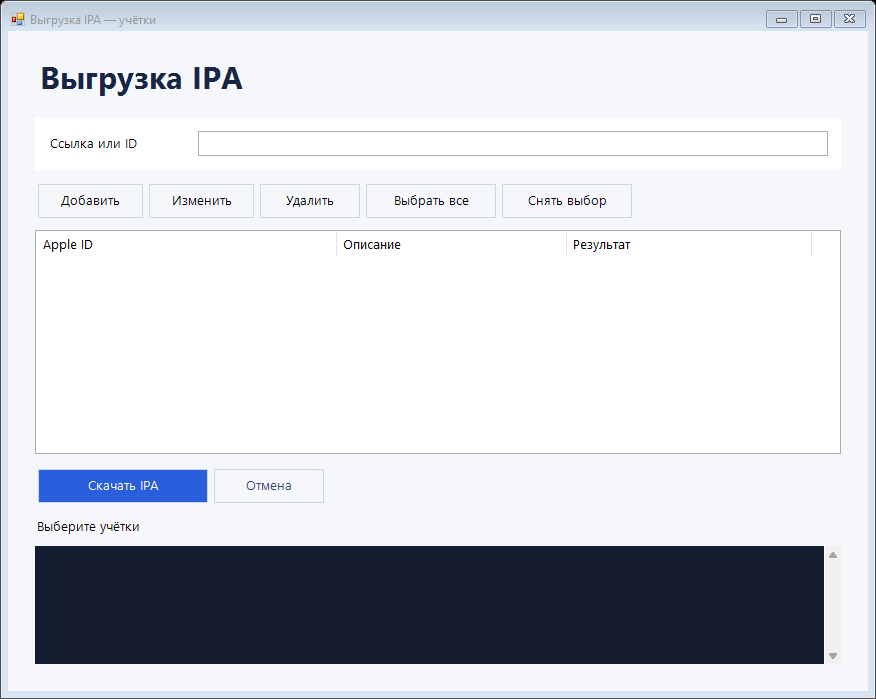
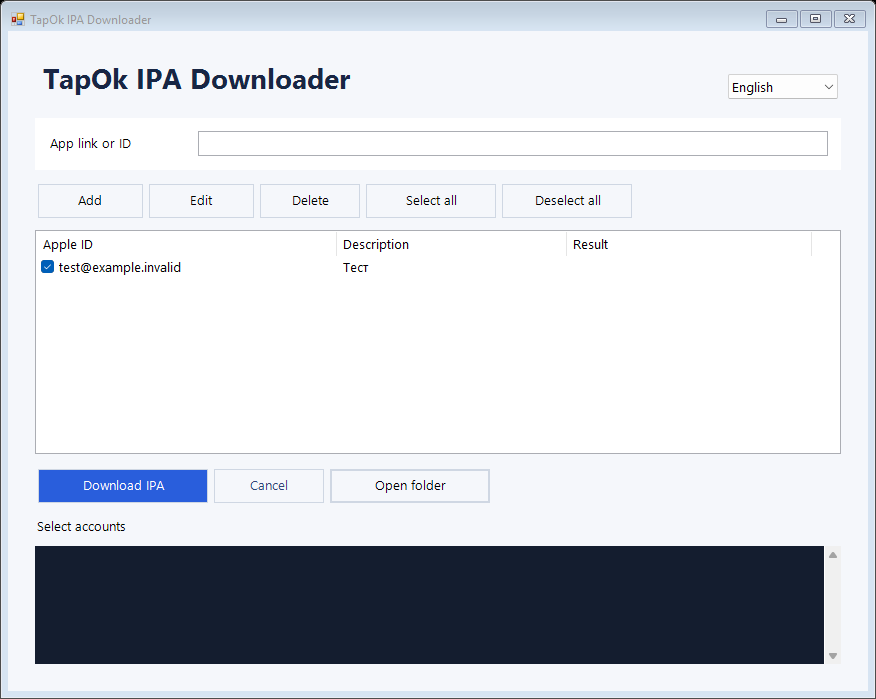
Rename the suite and all applications to TapOk IPA Tools

diff --git a/android/app/src/main/java/ru/ipadesk/usb/MainActivity.java b/android/app/src/main/java/ru/ipadesk/usb/MainActivity.java
@@ -91,7 +91,7 @@ public final class MainActivity extends Activity implements Installer.Listener {
         // IPA cache is disposable, never part of backups.
         File[] stale = getCacheDir().listFiles((dir, name) -> name.startsWith("selected-") && name.endsWith(".ipa"));
         if (stale != null) for (File f : stale) f.delete();
-        log("IPA USB 0.7.0-beta.3 • Android " + Build.VERSION.RELEASE + " • " + Build.MANUFACTURER + " " + Build.MODEL);
+        log("TapOk IPA Installer — Android 0.7.0-beta.4 • Android " + Build.VERSION.RELEASE + " • " + Build.MANUFACTURER + " " + Build.MODEL);
         refreshButtons();
     }
     private int dp(int value) { return (int)(value * getResources().getDisplayMetrics().density + 0.5f); }
@@ -126,8 +126,8 @@ public final class MainActivity extends Activity implements Installer.Listener {
         root.requestApplyInsets();
         LinearLayout top = row(root);
         heading = text(L10n.t(L10n.Key.TITLE), 28, Color.rgb(20,40,70)); heading.setTypeface(null, Typeface.BOLD);
-        heading.setMaxLines(1); heading.setAutoSizeTextTypeUniformWithConfiguration(18, 28, 1, android.util.TypedValue.COMPLEX_UNIT_SP);
-        top.addView(heading, new LinearLayout.LayoutParams(0, dp(48), 1));
+        heading.setMaxLines(2); heading.setAutoSizeTextTypeUniformWithConfiguration(16, 22, 1, android.util.TypedValue.COMPLEX_UNIT_SP);
+        top.addView(heading, new LinearLayout.LayoutParams(0, dp(64), 1));
         language = new Spinner(this);
         ArrayAdapter<String> languages = new ArrayAdapter<String>(this, android.R.layout.simple_spinner_item, new String[]{"RU", "EN"}) {
             @Override public View getView(int position, View convertView, ViewGroup parent) {
@@ -171,7 +171,7 @@ public final class MainActivity extends Activity implements Installer.Listener {
             setStatus(L10n.Key.STOPPING); stop.setEnabled(false);
         });
         save.setOnClickListener(v -> startActivityForResult(new Intent(Intent.ACTION_CREATE_DOCUMENT).setType("text/plain")
-            .addCategory(Intent.CATEGORY_OPENABLE).putExtra(Intent.EXTRA_TITLE, "IPA-USB-log.txt"), SAVE_LOG));
+            .addCategory(Intent.CATEGORY_OPENABLE).putExtra(Intent.EXTRA_TITLE, "TapOk-IPA-Installer-log.txt"), SAVE_LOG));
         language.setOnItemSelectedListener(new AdapterView.OnItemSelectedListener() {
             public void onNothingSelected(AdapterView<?> parent) {}
             public void onItemSelected(AdapterView<?> parent, View view, int position, long id) {
@@ -359,7 +359,7 @@ public final class MainActivity extends Activity implements Installer.Listener {
             try (OutputStream out = getContentResolver().openOutputStream(uri, "wt")) {
                 if (out == null) throw new IOException(L10n.t(L10n.Key.OPEN_FILE_FAILED));
                 captureUsb("export");
-                out.write((journal.toString() + "\n--- USB diagnostics (IPA USB 0.7.0-beta.3) ---\n" + usbJournal).getBytes(StandardCharsets.UTF_8));
+                out.write((journal.toString() + "\n--- USB diagnostics (TapOk IPA Installer — Android 0.7.0-beta.4) ---\n" + usbJournal).getBytes(StandardCharsets.UTF_8));
                 Toast.makeText(this, L10n.t(L10n.Key.LOG_SAVED), Toast.LENGTH_SHORT).show();
             } catch (Exception e) { failure(e); }
         } else if (request == PICK_IPA) {

diff --git a/installer/launcher/Launcher.cs b/installer/launcher/Launcher.cs
@@ -11,12 +11,12 @@ using System.Text;
 using System.Threading;
 using System.Windows.Forms;
 
-[assembly: AssemblyTitle("IPA Install")]
+[assembly: AssemblyTitle("TapOk IPA Installer — Windows")]
 [assembly: AssemblyDescription("Install IPA apps on iPhone via USB")]
-[assembly: AssemblyProduct("IPA Install")]
+[assembly: AssemblyProduct("TapOk IPA Installer — Windows")]
 [assembly: AssemblyVersion("1.1.0.0")]
-[assembly: AssemblyFileVersion("1.1.0.1")]
-[assembly: AssemblyInformationalVersion("1.1.0-beta.2")]
+[assembly: AssemblyFileVersion("1.1.0.3")]
+[assembly: AssemblyInformationalVersion("1.1.0-beta.3")]
 
 internal static class Launcher
 {
@@ -108,7 +108,7 @@ internal static class Launcher
             }
             catch { log = null; }
             if (testRoot == null)
-                MessageBox.Show(Text("Не удалось запустить IPA Install.\r\n", "Could not start IPA Install.\r\n") + error.Message + (log == null ? "" : Text("\r\n\r\nЖурнал: ", "\r\n\r\nLog: ") + log), "IPA Install", MessageBoxButtons.OK, MessageBoxIcon.Error);
+                MessageBox.Show(Text("Не удалось запустить TapOk IPA Installer — Windows.\r\n", "Could not start TapOk IPA Installer — Windows.\r\n") + error.Message + (log == null ? "" : Text("\r\n\r\nЖурнал: ", "\r\n\r\nLog: ") + log), "TapOk IPA Installer — Windows", MessageBoxButtons.OK, MessageBoxIcon.Error);
             return 1;
         }
     }

diff --git a/downloader/launcher/Launcher.cs b/downloader/launcher/Launcher.cs
@@ -11,12 +11,12 @@ using System.Text;
 using System.Threading;
 using System.Windows.Forms;
 
-[assembly: AssemblyTitle("IPA Desk Multi")]
+[assembly: AssemblyTitle("TapOk IPA Downloader")]
 [assembly: AssemblyDescription("Download App Store applications as IPA files")]
-[assembly: AssemblyProduct("IPA Desk Multi")]
+[assembly: AssemblyProduct("TapOk IPA Downloader")]
 [assembly: AssemblyVersion("0.4.0.0")]
-[assembly: AssemblyFileVersion("0.4.0.1")]
-[assembly: AssemblyInformationalVersion("0.4.0-beta.2")]
+[assembly: AssemblyFileVersion("0.4.0.3")]
+[assembly: AssemblyInformationalVersion("0.4.0-beta.3")]
 
 internal static class Launcher
 {
@@ -111,7 +111,7 @@ internal static class Launcher
             }
             catch { log = null; }
             if (testRoot == null)
-                MessageBox.Show(T("Не удалось запустить IPA Desk Multi.\r\n", "Could not start IPA Desk Multi.\r\n") + error.Message + (log == null ? "" : T("\r\n\r\nЖурнал: ", "\r\n\r\nLog: ") + log), "IPA Desk Multi", MessageBoxButtons.OK, MessageBoxIcon.Error);
+                MessageBox.Show(T("Не удалось запустить TapOk IPA Downloader.\r\n", "Could not start TapOk IPA Downloader.\r\n") + error.Message + (log == null ? "" : T("\r\n\r\nЖурнал: ", "\r\n\r\nLog: ") + log), "TapOk IPA Downloader", MessageBoxButtons.OK, MessageBoxIcon.Error);
             return 1;
         }
     }

diff --git a/android/app/src/main/java/ru/ipadesk/usb/L10n.java b/android/app/src/main/java/ru/ipadesk/usb/L10n.java
@@ -23,7 +23,7 @@ final class L10n {
     }
 
     enum Key {
-        TITLE("Установка IPA", "Install IPA"),
+        TITLE("TapOk IPA Installer", "TapOk IPA Installer"),
         LANGUAGE("Язык", "Language"),
         IPA_NOT_SELECTED("IPA не выбран", "No IPA selected"),
         SELECT_IPA("Выбрать IPA", "Select IPA"),

diff --git a/docs/RELEASE_NOTES.md b/docs/RELEASE_NOTES.md
@@ -1,4 +1,4 @@
-# IPA Desk
+# TapOk IPA Tools
 
 <details>
 <summary>English</summary>
@@ -7,11 +7,11 @@ Three apps in one release. English is the default; Russian remains available. Pr
 
 | App | Purpose | Download | Guide |
 |---|---|---|---|
-| IPA Desk Multi 0.4.0-beta.2 | Download App Store apps on Windows | [EXE](https://github.com/TapOk38/ipa-desk-multi/releases/download/suite-v1.0.0-beta.3/IPA-Desk-Multi-0.4.0-beta.2.exe) | [Open](https://github.com/TapOk38/ipa-desk-multi/blob/main/downloader/README.md) |
-| IPA Install 1.1.0-beta.2 | Install IPA files on iPhone from Windows over USB | [EXE](https://github.com/TapOk38/ipa-desk-multi/releases/download/suite-v1.0.0-beta.3/IPA-Install.exe) | [Open](https://github.com/TapOk38/ipa-desk-multi/blob/main/installer/README.md) |
-| IPA USB 0.7.0-beta.3 | Install IPA files on iPhone from Android over USB | [APK](https://github.com/TapOk38/ipa-desk-multi/releases/download/suite-v1.0.0-beta.3/ipa-usb-0.7.0-beta.3.apk) | [Open](https://github.com/TapOk38/ipa-desk-multi/blob/main/android/README.md) |
+| TapOk IPA Downloader 0.4.0-beta.3 | Download App Store apps on Windows | [EXE](https://github.com/TapOk38/tapok-ipa-tools/releases/download/suite-v1.0.0-beta.4/TapOk-IPA-Downloader-0.4.0-beta.3.exe) | [Open](https://github.com/TapOk38/tapok-ipa-tools/blob/main/downloader/README.md) |
+| TapOk IPA Installer — Windows 1.1.0-beta.3 | Install IPA files on iPhone from Windows over USB | [EXE](https://github.com/TapOk38/tapok-ipa-tools/releases/download/suite-v1.0.0-beta.4/TapOk-IPA-Installer-Windows.exe) | [Open](https://github.com/TapOk38/tapok-ipa-tools/blob/main/installer/README.md) |
+| TapOk IPA Installer — Android 0.7.0-beta.4 | Install IPA files on iPhone from Android over USB | [APK](https://github.com/TapOk38/tapok-ipa-tools/releases/download/suite-v1.0.0-beta.4/TapOk-IPA-Installer-Android-0.7.0-beta.4.apk) | [Open](https://github.com/TapOk38/tapok-ipa-tools/blob/main/android/README.md) |
 
-IPA USB: added the launcher icon. Includes the screen sizing and language selector fixes.
+All three apps now use TapOk names. Saved accounts, language settings and Android pairing remain compatible with previous versions.
 
 </details>
 
@@ -19,8 +19,8 @@ IPA USB: added the launcher icon. Includes the screen sizing and language select
 
 | Программа | Назначение | Скачать | Инструкция |
 |---|---|---|---|
-| IPA Desk Multi 0.4.0-beta.2 | Скачивание приложений из App Store на Windows | [EXE](https://github.com/TapOk38/ipa-desk-multi/releases/download/suite-v1.0.0-beta.3/IPA-Desk-Multi-0.4.0-beta.2.exe) | [Открыть](https://github.com/TapOk38/ipa-desk-multi/blob/main/downloader/README.md) |
-| IPA Install 1.1.0-beta.2 | Установка IPA на iPhone с Windows через USB | [EXE](https://github.com/TapOk38/ipa-desk-multi/releases/download/suite-v1.0.0-beta.3/IPA-Install.exe) | [Открыть](https://github.com/TapOk38/ipa-desk-multi/blob/main/installer/README.md) |
-| IPA USB 0.7.0-beta.3 | Установка IPA на iPhone с Android через USB | [APK](https://github.com/TapOk38/ipa-desk-multi/releases/download/suite-v1.0.0-beta.3/ipa-usb-0.7.0-beta.3.apk) | [Открыть](https://github.com/TapOk38/ipa-desk-multi/blob/main/android/README.md) |
+| TapOk IPA Downloader 0.4.0-beta.3 | Скачивание приложений из App Store на Windows | [EXE](https://github.com/TapOk38/tapok-ipa-tools/releases/download/suite-v1.0.0-beta.4/TapOk-IPA-Downloader-0.4.0-beta.3.exe) | [Открыть](https://github.com/TapOk38/tapok-ipa-tools/blob/main/downloader/README.md) |
+| TapOk IPA Installer — Windows 1.1.0-beta.3 | Установка IPA на iPhone с Windows через USB | [EXE](https://github.com/TapOk38/tapok-ipa-tools/releases/download/suite-v1.0.0-beta.4/TapOk-IPA-Installer-Windows.exe) | [Открыть](https://github.com/TapOk38/tapok-ipa-tools/blob/main/installer/README.md) |
+| TapOk IPA Installer — Android 0.7.0-beta.4 | Установка IPA на iPhone с Android через USB | [APK](https://github.com/TapOk38/tapok-ipa-tools/releases/download/suite-v1.0.0-beta.4/TapOk-IPA-Installer-Android-0.7.0-beta.4.apk) | [Открыть](https://github.com/TapOk38/tapok-ipa-tools/blob/main/android/README.md) |
 
-IPA USB: добавлена иконка приложения. Сохранены исправления размера окна и переключателя языка.
+Все три приложения переименованы в TapOk. Сохранённые учётные записи, язык и сопряжение Android совместимы с предыдущими версиями.

diff --git a/downloader/README.md b/downloader/README.md
@@ -1,11 +1,11 @@
-# IPA Desk Multi
+# TapOk IPA Downloader
 
 <details>
 <summary>English</summary>
 
 Downloads apps from the App Store on Windows. Saves a separate IPA for each selected account.
 
-**[Download EXE](https://github.com/TapOk38/ipa-desk-multi/releases/download/suite-v1.0.0-beta.3/IPA-Desk-Multi-0.4.0-beta.2.exe)** · 0.4.0-beta.2
+**[Download EXE](https://github.com/TapOk38/tapok-ipa-tools/releases/download/suite-v1.0.0-beta.4/TapOk-IPA-Downloader-0.4.0-beta.3.exe)** · 0.4.0-beta.3
 
 ## Requirements
 
@@ -24,7 +24,7 @@ Required components are downloaded automatically on first use.
 
 ## Installation and limitations
 
-Use [IPA Install](../installer/README.md) or [IPA USB](../android/README.md) to install the file. Launching the app may require the Apple ID used to download it.
+Use [TapOk IPA Installer — Windows](../installer/README.md) or [TapOk IPA Installer — Android](../android/README.md) to install the file. Launching the app may require the Apple ID used to download it.
 
 The app must be available to the selected account. A license for a free app is acquired automatically; paid purchases are not made.
 
@@ -32,13 +32,13 @@ Bulk downloading while switching between many Apple IDs on one PC is not recomme
 
 If an error occurs, check the log and include it in an issue after removing personal information.
 
-[All apps](../README.md) · [Report an issue](https://github.com/TapOk38/ipa-desk-multi/issues) · [Data storage](PRIVACY.md)
+[All apps](../README.md) · [Report an issue](https://github.com/TapOk38/tapok-ipa-tools/issues) · [Data storage](PRIVACY.md)
 
 </details>
 
 Скачивает приложения из App Store на Windows. Для каждой выбранной учётной записи сохраняет отдельный IPA.
 
-**[Скачать EXE](https://github.com/TapOk38/ipa-desk-multi/releases/download/suite-v1.0.0-beta.3/IPA-Desk-Multi-0.4.0-beta.2.exe)** · 0.4.0-beta.2
+**[Скачать EXE](https://github.com/TapOk38/tapok-ipa-tools/releases/download/suite-v1.0.0-beta.4/TapOk-IPA-Downloader-0.4.0-beta.3.exe)** · 0.4.0-beta.3
 
 ## Требования
 
@@ -57,7 +57,7 @@ Windows 10/11 x64, интернет и Apple ID с настроенным App St
 
 ## Установка и ограничения
 
-Для установки используйте [IPA Install](../installer/README.md) или [IPA USB](../android/README.md). При запуске приложения может потребоваться Apple ID, с которым скачан IPA.
+Для установки используйте [TapOk IPA Installer — Windows](../installer/README.md) или [TapOk IPA Installer — Android](../android/README.md). При запуске приложения может потребоваться Apple ID, с которым скачан IPA.
 
 Приложение должно быть доступно выбранной учётной записи. Лицензия на бесплатное приложение получается автоматически; платные покупки не выполняются.
 
@@ -65,4 +65,4 @@ Windows 10/11 x64, интернет и Apple ID с настроенным App St
 
 При ошибке проверьте журнал и приложите его текст к обращению, удалив личные данные.
 
-[Все программы](../README.md) · [Сообщить об ошибке](https://github.com/TapOk38/ipa-desk-multi/issues) · [Хранение данных](PRIVACY.md)
+[Все программы](../README.md) · [Сообщить об ошибке](https://github.com/TapOk38/tapok-ipa-tools/issues) · [Хранение данных](PRIVACY.md)

diff --git a/installer/README.md b/installer/README.md
@@ -1,11 +1,11 @@
-# IPA Install
+# TapOk IPA Installer — Windows
 
 <details>
 <summary>English</summary>
 
 Installs IPA files on an iPhone from Windows over USB.
 
-**[Download EXE](https://github.com/TapOk38/ipa-desk-multi/releases/download/suite-v1.0.0-beta.3/IPA-Install.exe)** · 1.1.0-beta.2
+**[Download EXE](https://github.com/TapOk38/tapok-ipa-tools/releases/download/suite-v1.0.0-beta.4/TapOk-IPA-Installer-Windows.exe)** · 1.1.0-beta.3
 
 ## Requirements
 
@@ -33,13 +33,13 @@ To install on another iPhone, reconnect the cable and click **Refresh**. Connect
 - **iPhone not detected:** check the cable, trust confirmation and connection in Apple Devices.
 - **Installation error:** check the log. The IPA must be compatible with iOS and have a valid signature. The tool does not re-sign files or remove their Apple ID association.
 
-[All apps](../README.md) · [Report an issue](https://github.com/TapOk38/ipa-desk-multi/issues) · [Data storage](PRIVACY.md)
+[All apps](../README.md) · [Report an issue](https://github.com/TapOk38/tapok-ipa-tools/issues) · [Data storage](PRIVACY.md)
 
 </details>
 
 Устанавливает IPA на iPhone с Windows через USB.
 
-**[Скачать EXE](https://github.com/TapOk38/ipa-desk-multi/releases/download/suite-v1.0.0-beta.3/IPA-Install.exe)** · 1.1.0-beta.2
+**[Скачать EXE](https://github.com/TapOk38/tapok-ipa-tools/releases/download/suite-v1.0.0-beta.4/TapOk-IPA-Installer-Windows.exe)** · 1.1.0-beta.3
 
 ## Требования
 
@@ -67,4 +67,4 @@ Windows 10/11 x64, драйвер Apple, USB-кабель с передачей 
 - **iPhone не определяется:** проверьте кабель, доверие и подключение в Apple Devices.
 - **Ошибка установки:** проверьте журнал. IPA должен быть совместим с iOS и иметь действующую подпись. Программа не переподписывает файл и не снимает привязку к Apple ID.
 
-[Все программы](../README.md) · [Сообщить об ошибке](https://github.com/TapOk38/ipa-desk-multi/issues) · [Хранение данных](PRIVACY.md)
+[Все программы](../README.md) · [Сообщить об ошибке](https://github.com/TapOk38/tapok-ipa-tools/issues) · [Хранение данных](PRIVACY.md)

diff --git a/README.md b/README.md
@@ -1,38 +1,38 @@
-# IPA Desk
+# TapOk IPA Tools
 
 <details>
 <summary>English</summary>
 
 Tools for downloading and installing IPA files, with Russian and English interfaces.
 
-### [IPA Desk Multi](downloader/README.md)
+### [TapOk IPA Downloader](downloader/README.md)
 
 Download apps from the App Store on Windows.
 
-### [IPA Install](installer/README.md)
+### [TapOk IPA Installer — Windows](installer/README.md)
 
 Install IPA files on an iPhone from Windows over USB.
 
-### [IPA USB](android/README.md)
+### [TapOk IPA Installer — Android](android/README.md)
 
 Install IPA files on an iPhone from Android over USB.
 
-[Downloads](https://github.com/TapOk38/ipa-desk-multi/releases/tag/suite-v1.0.0-beta.3) · [Report an issue](https://github.com/TapOk38/ipa-desk-multi/issues) · [Contributing](.github/CONTRIBUTING.md)
+[Downloads](https://github.com/TapOk38/tapok-ipa-tools/releases/tag/suite-v1.0.0-beta.4) · [Report an issue](https://github.com/TapOk38/tapok-ipa-tools/issues) · [Contributing](.github/CONTRIBUTING.md)
 
 </details>
 
 Программы для скачивания и установки IPA с русским и английским интерфейсом.
 
-### [IPA Desk Multi](downloader/README.md)
+### [TapOk IPA Downloader](downloader/README.md)
 
 Скачивание приложений из App Store на Windows.
 
-### [IPA Install](installer/README.md)
+### [TapOk IPA Installer — Windows](installer/README.md)
 
 Установка IPA на iPhone с Windows через USB.
 
-### [IPA USB](android/README.md)
+### [TapOk IPA Installer — Android](android/README.md)
 
 Установка IPA на iPhone с Android через USB.
 
-[Скачать программы](https://github.com/TapOk38/ipa-desk-multi/releases/tag/suite-v1.0.0-beta.3) · [Сообщить об ошибке](https://github.com/TapOk38/ipa-desk-multi/issues) · [Разработчикам](.github/CONTRIBUTING.md)
+[Скачать программы](https://github.com/TapOk38/tapok-ipa-tools/releases/tag/suite-v1.0.0-beta.4) · [Сообщить об ошибке](https://github.com/TapOk38/tapok-ipa-tools/issues) · [Разработчикам](.github/CONTRIBUTING.md)

diff --git a/android/README.md b/android/README.md
@@ -1,11 +1,11 @@
-# IPA USB
+# TapOk IPA Installer — Android
 
 <details>
 <summary>English</summary>
 
 Installs IPA files on an iPhone from Android over USB.
 
-**[Download APK](https://github.com/TapOk38/ipa-desk-multi/releases/download/suite-v1.0.0-beta.3/ipa-usb-0.7.0-beta.3.apk)** · 0.7.0-beta.3
+**[Download APK](https://github.com/TapOk38/tapok-ipa-tools/releases/download/suite-v1.0.0-beta.4/TapOk-IPA-Installer-Android-0.7.0-beta.4.apk)** · 0.7.0-beta.4
 
 ## Requirements
 
@@ -27,13 +27,13 @@ If the app requests an Apple ID when launched, use the account that downloaded t
 
 To report an error, tap **Save log** and remove personal information from the log.
 
-[All apps](../README.md) · [Report an issue](https://github.com/TapOk38/ipa-desk-multi/issues) · [Data storage](PRIVACY.md)
+[All apps](../README.md) · [Report an issue](https://github.com/TapOk38/tapok-ipa-tools/issues) · [Data storage](PRIVACY.md)
 
 </details>
 
 Устанавливает IPA на iPhone с Android через USB.
 
-**[Скачать APK](https://github.com/TapOk38/ipa-desk-multi/releases/download/suite-v1.0.0-beta.3/ipa-usb-0.7.0-beta.3.apk)** · 0.7.0-beta.3
+**[Скачать APK](https://github.com/TapOk38/tapok-ipa-tools/releases/download/suite-v1.0.0-beta.4/TapOk-IPA-Installer-Android-0.7.0-beta.4.apk)** · 0.7.0-beta.4
 
 ## Требования
 
@@ -55,4 +55,4 @@ Android 8.0+ с поддержкой OTG, USB-кабель с передачей
 
 Для обращения об ошибке нажмите **«Сохранить журнал»** и удалите из журнала личные данные.
 
-[Все программы](../README.md) · [Сообщить об ошибке](https://github.com/TapOk38/ipa-desk-multi/issues) · [Хранение данных](PRIVACY.md)
+[Все программы](../README.md) · [Сообщить об ошибке](https://github.com/TapOk38/tapok-ipa-tools/issues) · [Хранение данных](PRIVACY.md)

diff --git a/installer/BUILDING.md b/installer/BUILDING.md
@@ -1,4 +1,4 @@
-# Building IPA Install
+# Building TapOk IPA Installer — Windows
 
 Requires 64-bit Windows, Windows PowerShell 5.1 and .NET Framework 4.5 or later.
 
@@ -9,12 +9,12 @@ Run from the repository root:
 .\installer\Build-Exe.ps1 -Destination .\dist-install
 ```
 
-The first script downloads pinned MSYS2 packages and their corresponding sources, verifies SHA-256 checksums, and extracts only the required EXE/DLL files. Licenses and build recipes are stored in `installer/tools/`. The output is `dist-install/IPA-Install.exe`.
+The first script downloads pinned MSYS2 packages and their corresponding sources, verifies SHA-256 checksums, and extracts only the required EXE/DLL files. Licenses and build recipes are stored in `installer/tools/`. The output is `dist-install/TapOk-IPA-Installer-Windows.exe`.
 
 To check startup and bundled components:
 
 ```powershell
-.\installer\Test-Exe.ps1 -ExePath .\dist-install\IPA-Install.exe -TestRoot .\.test-install-exe
+.\installer\Test-Exe.ps1 -ExePath .\dist-install\TapOk-IPA-Installer-Windows.exe -TestRoot .\.test-install-exe
 .\installer\tests\Test-Engine.ps1 -AppRoot .\installer -TestRoot .\.test-install-engine
 .\installer\tests\Test-Credentials.ps1 -ModulePath .\installer\Credentials.ps1 -TestRoot .\.test-install-credentials
 ```

diff --git a/downloader/BUILDING.md b/downloader/BUILDING.md
@@ -1,4 +1,4 @@
-# Building IPA Desk Multi
+# Building TapOk IPA Downloader
 
 Requires 64-bit Windows, Windows PowerShell 5.1 and .NET Framework 4.5 or later.
 
@@ -6,7 +6,7 @@ Run these commands from the `downloader/` folder.
 
 ```powershell
 .\Build-Exe.ps1 -Destination .\dist
-.\tests\Test-Exe.ps1 -ExePath .\dist\IPA-Desk-Multi-0.4.0-beta.2.exe -WorkRoot $env:TEMP
+.\tests\Test-Exe.ps1 -ExePath .\dist\TapOk-IPA-Downloader-0.4.0-beta.3.exe -WorkRoot $env:TEMP
 .\tests\Test-Engine.ps1
 .\tests\Test-Tools.ps1
 .\tests\Test-Localization.ps1
@@ -16,4 +16,4 @@ The EXE contains the interface, application code and license notices. The ipatoo
 
 `Build-Release.ps1` creates the legacy package with `Start.cmd`. This format saves files in `Downloads` beside the scripts. The EXE saves them to the system **Downloads → IPA Desk Multi** folder.
 
-[Building IPA Install](../installer/BUILDING.md)
+[Building TapOk IPA Installer — Windows](../installer/BUILDING.md)

diff --git a/.github/CONTRIBUTING.md b/.github/CONTRIBUTING.md
@@ -2,9 +2,9 @@
 
 | Application | Source | Build instructions |
 | --- | --- | --- |
-| IPA Desk Multi | `downloader/` | [Windows downloader](../downloader/BUILDING.md) |
-| IPA Install | `installer/` | [Windows installer](../installer/BUILDING.md) |
-| IPA USB | `android/` | [Android installer](../android/docs/BUILDING.md) |
+| TapOk IPA Downloader | `downloader/` | [Windows downloader](../downloader/BUILDING.md) |
+| TapOk IPA Installer — Windows | `installer/` | [Windows installer](../installer/BUILDING.md) |
+| TapOk IPA Installer — Android | `android/` | [Android installer](../android/docs/BUILDING.md) |
 
 Windows code is licensed under [MIT](../LICENSE); Android code is [GPL-3.0-only](../android/LICENSE). Third-party components retain their respective licenses.
 
